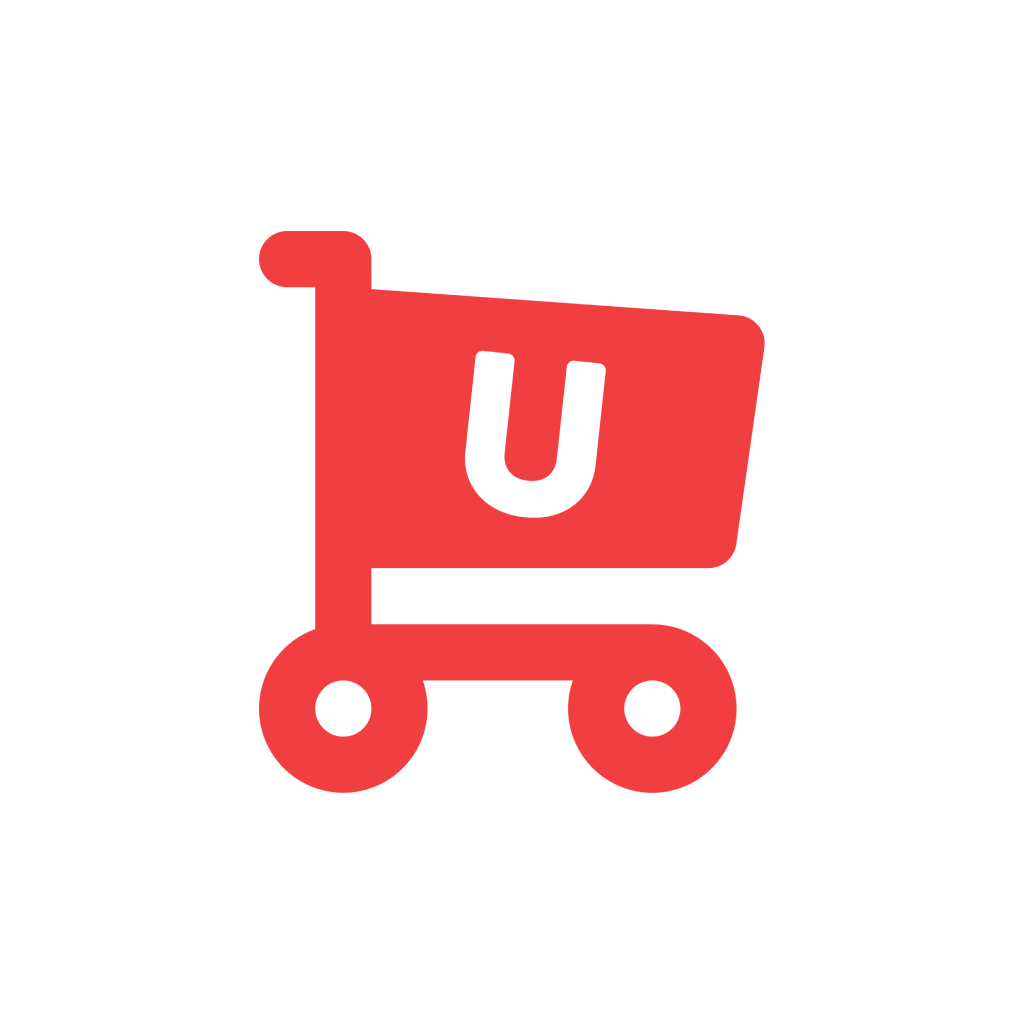
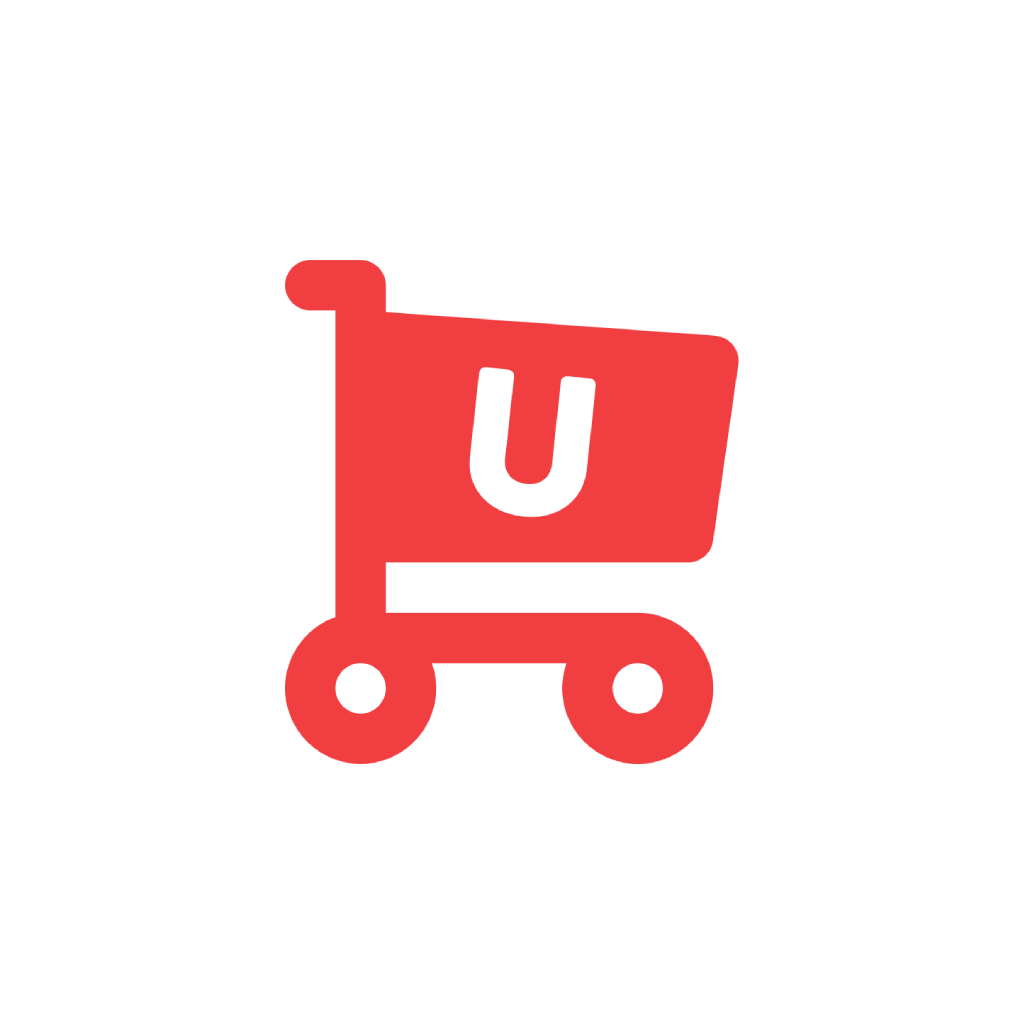
fix: user had to double tap to select the city on register page
decreased icon app size

Changed region(s): [[0.25, 0.2188, 0.75, 0.7812], [0.4375, 0.3438, 0.5, 0.4688]]

diff --git a/components/ui/DropDownInputField.tsx b/components/ui/DropDownInputField.tsx
@@ -1,4 +1,4 @@
-import {StyleSheet, Text, View} from "react-native";
+import {Keyboard, StyleSheet, Text, View} from "react-native";
 import {COLORS, MISC} from "@/constants/styles";
 import DropDownPicker from "react-native-dropdown-picker";
 import React from "react";
@@ -25,6 +25,16 @@ export default function DropDownInputField({
                                                setItems
                                            }: InputField) {
 
+    const handleOpen = () => {
+        Keyboard.dismiss();
+
+        setOpen(true);
+    }
+
+    const handleClose = () => {
+        setOpen(false);
+    }
+
     return (
         <View>
             <Text style={{
@@ -34,7 +44,8 @@ export default function DropDownInputField({
                 open={open}
                 value={value}
                 items={items}
-                setOpen={setOpen}
+                setOpen={handleOpen}
+                onClose={handleClose}
                 setValue={setValue}
                 setItems={setItems}
                 placeholder={placeholder}

diff --git a/app/register.tsx b/app/register.tsx
@@ -141,7 +141,7 @@ export default function RegisterScreen() {
 
                 if (error) setErrorMsg(data);
 
-                if (!error && data.id) setUserId(String(data.id));
+                if (!error && data) setUserId(String(data));
 
             } catch (error) {
                 setError(true);
@@ -152,6 +152,7 @@ export default function RegisterScreen() {
 
     const goToFirstStep = () => {
         setSecondRegisterStep(false);
+        setError(false);
     }
 
     if (!secondRegisterStep) {
